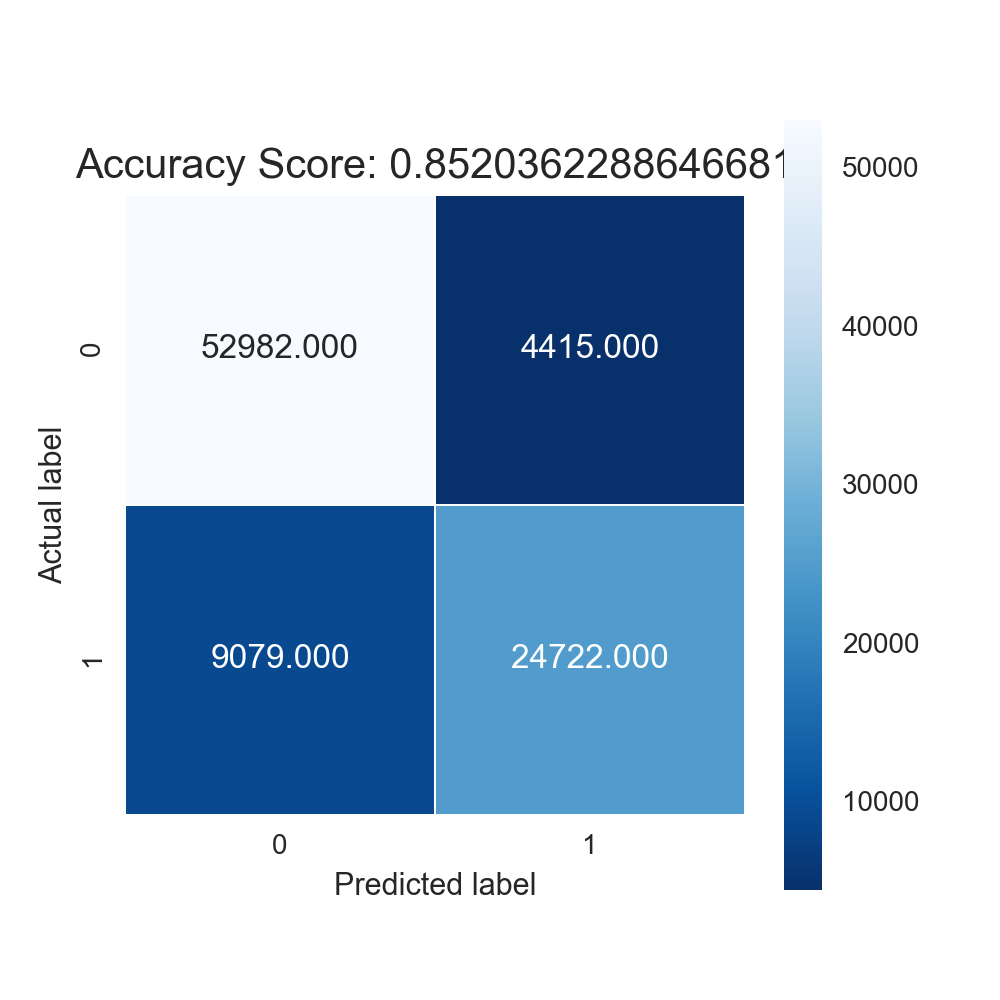
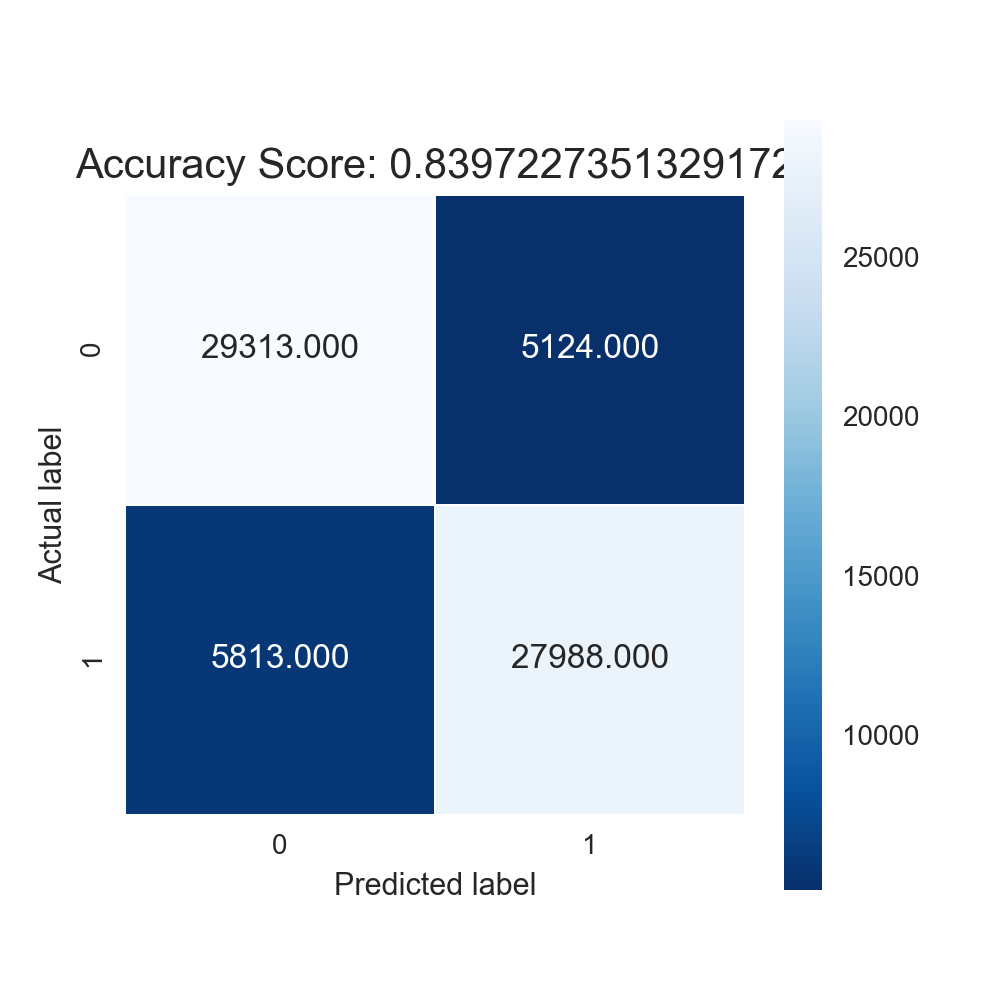
fixed stratified sample stuff

diff --git a/index.html b/index.html
@@ -22,43 +22,64 @@ MathJax.Hub.Config({
 <h2>Using logistic regression to classify news headlines from various sources as satire or reliable.</h2>
 <dt-byline></dt-byline>
 <p>While humans are fairly adept at recognizing sarcasm from seriousness, the prevalence of fake news and outlandish headlines have been making it much harder to determine what is real in the media. In this article we will attempt to create a logistic regression classifier to differentiate between real and satire news headlines. We can then use this classifier to see whether other types of unreliable or fake news have headlines similar to credible news or satire.</p>
-<p>I decided to use the open source dataset Fake News Corpus <dt-fn>github repo available <a href = "https://github.com/several27/FakeNewsCorpus">here</a> </dt-fn> to provide the satire and credible news headlines. The dataset itself consists of over 5 million articles classified<dt-fn>The original source used <a href = "https://github.com/several27/FakeNewsCorpus">http://www.opensources.co/</a> to classify each domain, but this site has since closed down.</dt-fn> into different types such as credible, satire, fake news, and so on. It is important to note that the data is classified into each type based off the domain of the article rather than the article itself. In order to make this data easier to work with, I cleaned the raw  csv to eliminate unnecessary columns, eliminate non-ascii characters, and eliminated rows with types that did not fall into the categories outlined by the original corpus. </p>
+<p>I decided to use the open source dataset Fake News Corpus <dt-fn>github repo available <a href = "https://github.com/several27/FakeNewsCorpus">here</a> </dt-fn> to provide the satire and credible news headlines. The dataset itself consists of over 5 million articles classified<dt-fn>The original source used <a href = "https://github.com/several27/FakeNewsCorpus">http://www.opensources.co/</a> to classify each domain, but this site has since closed down.</dt-fn> into different types such as credible, satire, fake news, and so on. It is important to note that the data is classified into each type based off the domain of the article rather than the content article itself. In order to make this data easier to work with, I cleaned the raw  csv to eliminate unnecessary columns, non-ascii characters, and rows with types that did not fall into the categories outlined by the original corpus. </p>
 <p>To get a better idea of where our news is coming from, let's explore the domains under the credible and the satire types. In the original dataset, the domain names were expressed as the news site they were scraped from, and thus included url extensions. To standardize the domain names, I eliminated punctuation and stop words<dt-fn>The complete list of stopwords used: ["com", "www", "org", "co", "uk", "aus", "domain", "columns", "rows", "au", "af", "ca", "go", "de", "in", "nz", "m", "net"]</dt-fn>. After doing this, we can create a word cloud to reflect the domains classified as reliable news and satire news and their relative frequencies<dt-fn>The distribution of these sites is very skewed, with the most common sites appearing exponentially more often than the others. To get a wrod cloud with more variety I took the log of the frequency of each domain.</dt-fn>.</p>
-<img src="images/credible_news_domains.png"
+<feature>
+    <img src="images/credible_news_domains.png"
      alt = "A word cloud demonstrating the frequencies of credible news domains in our dataset"
-     align = "left"
+     align = "center"
      width="500"
      height="375"
-     title = "Reliable news domains in the Fake News Corpus dataset"><img src="images/satire_news_domains.png"
+     title = "Reliable news domains in the Fake News Corpus dataset"
+     hspace = "10">
+<img src="images/satire_news_domains.png"
      alt = "A word cloud demonstrating the frequencies of satire news domains in our dataset"
-     align = "left"
+     align = "center"
      width="500"
      height="375"
-     title = "Satire news domains in the Fake News Corpus dataset">
+     title = "Satire news domains in the Fake News Corpus dataset"
+      hspace = "10">
+<p><figcaption>&nbsp;&nbsp;&nbsp;&nbsp;&nbsp;&nbsp;&nbsp;&nbsp;&nbsp;&nbsp;&nbsp;&nbsp;Fig. 1 Word cloud demonstrating the domains of the satire news (right) and reliable news (left).</figcaption></p>
+</feature>
 <p>So, let's create a classifier to determine whether an article is reliable or satirical. I used the SciKitLearn Count Vectorizer<dt-fn>documentation found <a href = "https://scikit-learn.org/stable/modules/generated/sklearn.feature_extraction.text.CountVectorizer.html">here</a></dt-fn> to create a bag of words model for our data. I also split the data into test and training sets stratified by domain. By doing this, we retain the proportions of each domain represented in the test and training datasets. Finally, I constructed a logistic regression model<dt-fn>built with SciKit Learn, documentation found <a href = "https://scikit-learn.org/stable/modules/generated/sklearn.linear_model.LogisticRegression.html">here</a></dt-fn> To visualize the accuracy of the model I created a confusion matrix:</p>
-<img src="images/cm_total.png"
+<feature>
+    <img src="images/cm_total.png"
  alt = "A confusion matrix demonstrating the accuracy of the model in classifying articles. Total accuracy is roughly .96"
- align = "middle"
+ align = "center"
  width="500"
  height="500"
- title = "Confusion matrix of running logistic regression on the entire dataset.">
-<p>Looking at this, we see a fairly high accuracy rate. while this is prommising, after looking a bit closer we see that the satire data has a very high false negative rate. This is becuase the satire data is being clobbered by the real news data. In fact, if we were to classify all headlines as credible news, we would see an accuracy of .95! This is not quite what we wanted, since we are trying to classify articles based off of their text content rather than pure probability. So, in order to better understand the problem let's examine a Receiver Operating Characteristic Curve (ROC Curve). This will tell us how distinguishable our problems are and the ease we can separate the two sets. We see the issue from our modelling reflected in this ROC curve: </p>
-<img src="images/roc_total.png"
+ title = "Confusion matrix of running logistic regression on the entire dataset."
+ hspace = "150">
+<p><figcaption>&nbsp;&nbsp;&nbsp;&nbsp;&nbsp;&nbsp;&nbsp;&nbsp;&nbsp;&nbsp;&nbsp;&nbsp;Fig. 2 Confusion matrix of the entire dataset. 1 corresponds to satire news while 0 corresponds to real news.</figcaption></p>
+</feature>
+<p>Looking at this, we see a fairly high accuracy rate. while this is promising, looking a bit closer we see that the satire data has a very high false negative rate. This is becuase the satire data is being clobbered by the real news data. In fact, if we were to classify all headlines as credible news, we would see an accuracy of .95! This is not quite what we wanted, since we are trying to classify articles based off of their headline text content rather than pure probability. So, in order to better understand the problem let's examine a Receiver Operating Characteristic Curve (ROC Curve). We can visualize the accuracy of our model with this ROC curve: </p>
+<feature>
+    <img src="images/roc_total.png"
  alt = "A ROC Curve demonstrating the low true positive rate. The total area under the curve is .93."
- align = "middle"
+ align = "center"
  width="500"
- height="500"
- title = "ROC curve demonstrating the low true positive rate implicit in our data">
-<p>The area under the ROC curve is very large, which indicates that our model is not very accurate at all. I decided to try and pivot my focus from maximizing general accuracy to creating a model that will be more effective at classifying both satire and reliable news by having a lower false negative rate. So, I attemped to create a new reliable news dataset stratified from our total data by domain. So, I sampled the data to have a ratio of reliable to satire news of about 2:1. So, I created a new logistic regression model with this reduced amount of reliable news pieces. We get a confusion matrix as such: </p>
-<img src="images/cm_strat.png"
+ height="350"
+ title = "ROC curve demonstrating the low true positive rate implicit in our data"
+ hspace="150">
+    <p><figcaption>&nbsp;&nbsp;&nbsp;&nbsp;&nbsp;&nbsp;&nbsp;&nbsp;&nbsp;&nbsp;&nbsp;&nbsp;Fig.3 ROC curve demonstrating the low true positive rate implicit in our data.</figcaption></p>
+</feature>
+<p>The area under the ROC curve is very large, indicating our model is very accurate. However, as we noticed this is because we tend to have a lot of false negatives classifying satire news as real news. If we were to actually implement this in order to discern real and satire news articles this would be problematic, so lets try and shift along the ROC curve to an area with lower false negative rates. This will create a model that will be more effective at classifying both satire and reliable news in general, rather than when we have significantly more real news than satire. We will need to sacrifice some accuracy and true positive rates to change this. So, I attemped to create a new reliable news dataset using a stratified sample from our total data by domain. I sampled the data to have equal amounts of real and satire news. Then we can create a new logistic regression model that wil hopefully be more effective at classifying satire news headlines. We get a confusion matrix as such: </p>
+<feature>
+    <img 
+  src="images/cm_strat.png"
+ title = "Confusion matrix"
  alt = "A confusion matrix demonstrating the accuracy of the model in classifying articles. Total accuracy is roughly .85"
- align = "middle"
+ align = "center"
  width="500"
  height="500"
- title = "Confusion matrix of running logistic regression on a stratified dataset.">
-</dt-article>
-<p>While this is significantly less accurate than the one above, we do see a better accuracy for the satire section.</p>
+ hspace="150">
+<p><figcaption>&nbsp;&nbsp;&nbsp;&nbsp;&nbsp;&nbsp;&nbsp;&nbsp;&nbsp;&nbsp;&nbsp;&nbsp;Fig.4 Confusion matrix for a smaller real news population. 1 corresponds to satire, 0 corresponds to reliable news.</figcaption></p>
+</feature>
 
+
+<p>While this is significantly less accurate than the one above, we do see a better false negative rate. Now, we will use this on some of the other types and see which ones get classified as satire versus real news.</p>
+    
+</dt-article>
 <dt-appendix>
 </dt-appendix>
 

diff --git a/all python scripts/strat_regression.py b/all python scripts/strat_regression.py
@@ -13,7 +13,7 @@ credible_data = pd.read_csv("credible_data.csv")
 
 satire_data = pd.read_csv("satire_data.csv")
 
-credible_data_samp = credible_data.groupby('domain').apply(lambda x: x.sample(frac=0.10))
+credible_data_samp = credible_data.groupby('domain').apply(lambda x: x.sample(frac=0.06))
 
 
 total_data = pd.concat([credible_data_samp, satire_data])
